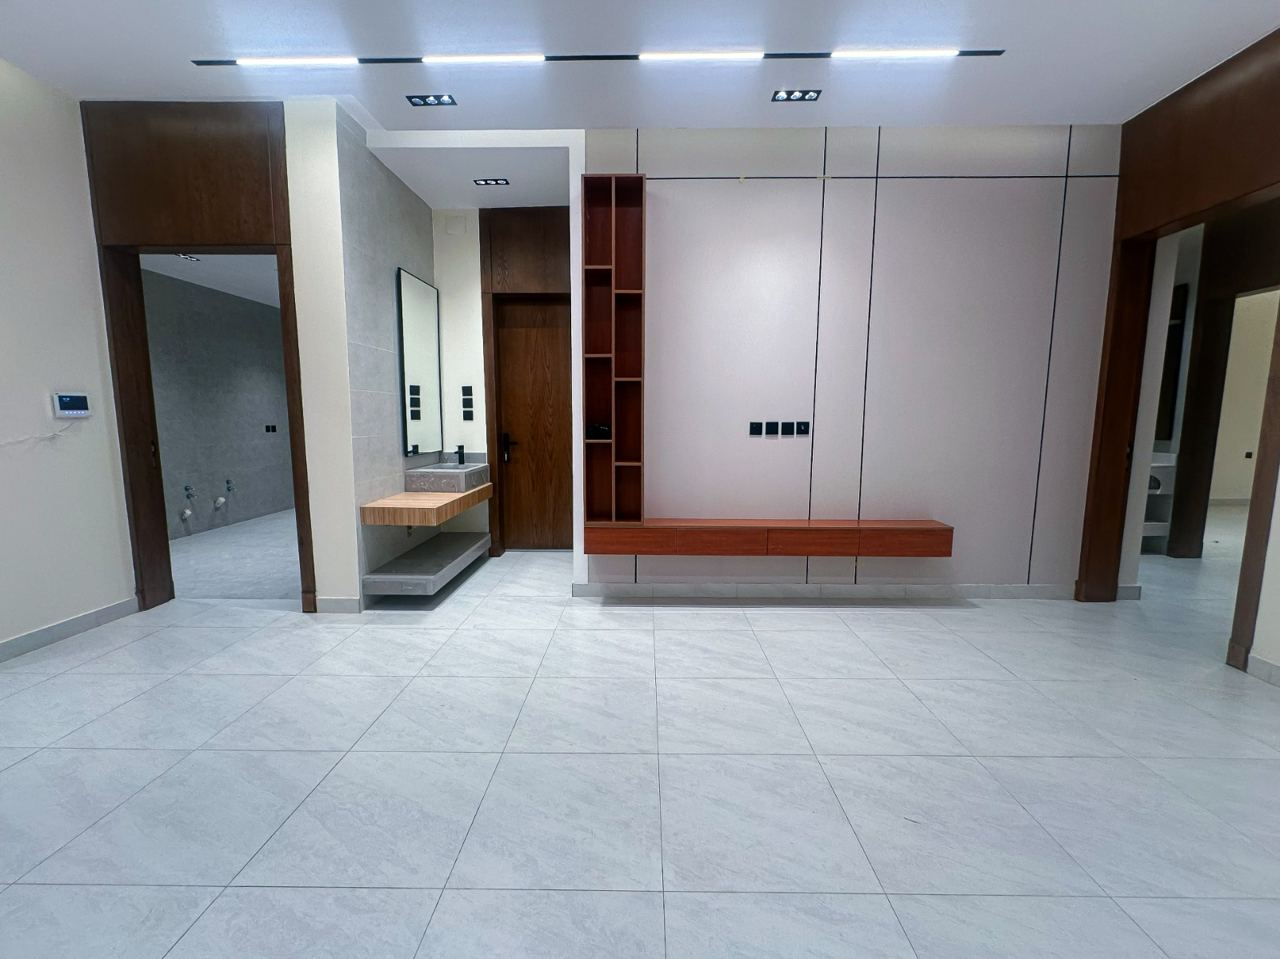
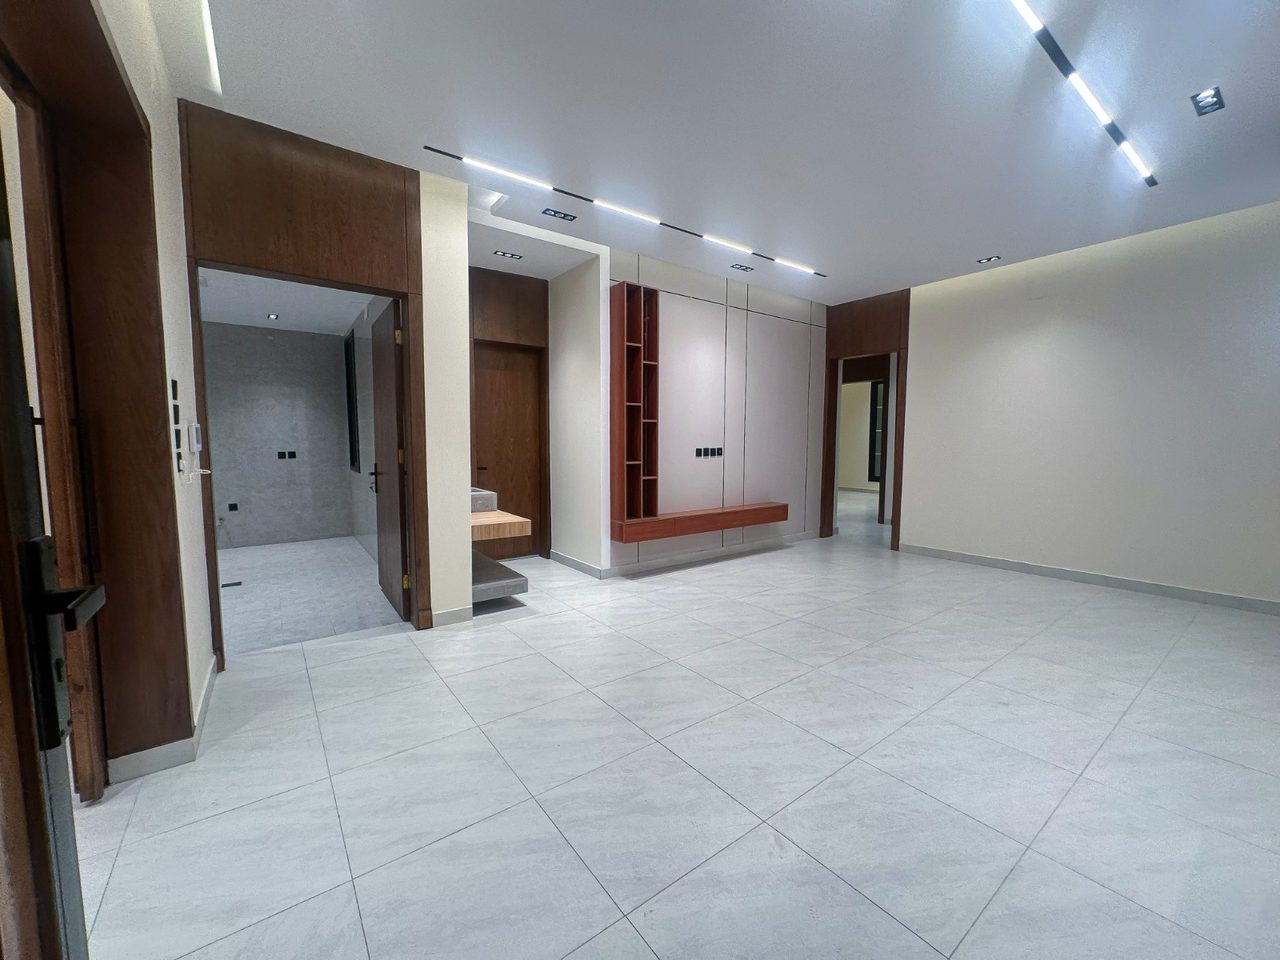
Units 6-10: licence-matched data and real photos (RT-006..RT-010)
Overwrite RT-006..RT-010 with the facts on their REGA ad licences (area, price, type,
district), expiry 2027-04-15, and real photos (EXIF stripped, <=1280px). QR stays empty,
so all units remain hidden under the current guard. Data/media only; no code changes.
See docs/batches/units-6-10-2026-11-14.md.

diff --git a/docs/batches/units-6-10-2026-11-14.md b/docs/batches/units-6-10-2026-11-14.md
@@ -1,0 +1,103 @@
+# Units 6–10 → remalteam.com — data/media batch (2026-11-14)
+
+Prepared Saturday 14 Nov 2026 (Cairo, UTC+2) from `/workspace/remal-units/publish-batch-2026-11-14/unit-*.md` («الموقع» sections) and real photos in `/workspace/remal-units/ready/`. Base: `feat/units-section` @ `abb703fa558638d67b71433330b6d728685d698a` (PR #3, draft). Data and media only — no code, tests or docs changed. Nothing merged or deployed.
+
+## RT numbers: existing files updated, no new numbers
+
+RT-001…RT-010 are all taken, and **RT-006…RT-010 already are units 6–10** (same advertising licence numbers), but with the stale Nov-4 facts the licence contradicts (220 m², «تاون هاوس», 750,000, 165 m², «أرواف فاخرة», «بناء 323 م²», logo-only media). Adding RT-011…RT-015 would have put each licence in the repo twice with conflicting facts, so this batch **overwrites RT-006…RT-010 in place**. RT-001…RT-005 untouched.
+
+| RT | Unit | Licence | Type (schema `type`) | Location | Area m² | Price SAR | Photos | Raw folder |
+|---|---|---|---|---|---|---|---|---|
+| RT-006 | 6 | 7201191996 | شقة – دور أول | أبها، حي الغدير | 189.61 | 520,000 | 10 | `ready/unit-15` |
+| RT-007 | 7 | 7201207200 | فيلا | أبها، حي الغدير | 319.46 | 890,000 | 12 | `ready/unit-11` |
+| RT-008 | 8 | 7201207193 | شقة – دور أرضي مع ملحق | خميس مشيط، حي غرناطة | 254.82 | 749,000 | 6 | `ready/unit-8` |
+| RT-009 | 9 | 7201207197 | شقة – دور أول علوي | أبها، حي الغدير | 164.74 | 490,000 | 9 | `ready/unit-9/media` |
+| RT-010 | 10 | 7201207195 | شقة مع ملحق | خميس مشيط، حي الشفاء | 274.72 | 735,000 | 10 | `ready/unit-12` |
+
+All five: `status: available`, `updated: 2026-11-14`, `ad_license_expiry: "2027-04-15"`, `ad_license_qr: ""` (so every unit stays hidden under the current guard), plus an extra, not-rendered field `ad_license_verify_url` (REGA licence page). Titles, SEO description and «المكونات» are copied verbatim from the md «الموقع» section; `type` is the md «النوع» without «للبيع» (the card adds «للبيع» itself). `rooms`/`bathrooms` only where the md states a total (6: 3 rooms; 7: 5/6; 9: 3/4). Unit 8 has no `rooms` field and no «4 غرف نوم» anywhere (text says غرفة نوم في الدور الأرضي + الملحق 3 غرف نوم, as written). No QR, CR number, REGA logo, bank names or rates in any file.
+
+Compliance lines are in `features` (verbatim from the md) so they show on the detail page even before code changes: «المعلن: مكتب الرمال تيم العقارية · رخصة فال 1200048445», «رقم ترخيص الإعلان: … · ينتهي 15/04/2027م», «المعاينة مجانية», «واتساب 0535330034». If the coding agent renders expiry/advertiser/FAL as dedicated fields, delete those feature lines to avoid duplicates.
+
+## Media
+
+Convention followed: `content/unit-media/<RT>/photo-N.jpg`, JPEG q82 progressive, long side ≤1280 px (never upscaled), EXIF/GPS/ICC stripped, `photo-1` = cover. No AI edits, crops or overlays. Excluded: any frame with people, mirror shots that could show the photographer, readable signage/banners (unit 8 exteriors carry a sales banner and a car; unit 9 street photo has signs), branded covers/designs/frames, and every furnished/model-villa image for unit 7. Old RT-008/RT-009 `photo-1…4` are replaced (same names, new files).
+
+### RT-006 — unit 6 (7201191996) — 10 photos
+
+- `photo-1.jpg` 960×1280 ← `ready/unit-15/WhatsApp Image 2026-11-14 at 2.05.00 PM.jpeg`
+- `photo-2.jpg` 960×1280 ← `ready/unit-15/WhatsApp Image 2026-11-14 at 2.05.01 PM (5).jpeg`
+- `photo-3.jpg` 960×1280 ← `ready/unit-15/WhatsApp Image 2026-11-14 at 2.05.01 PM (1).jpeg`
+- `photo-4.jpg` 960×1280 ← `ready/unit-15/WhatsApp Image 2026-11-14 at 2.05.00 PM (3).jpeg`
+- `photo-5.jpg` 960×1280 ← `ready/unit-15/WhatsApp Image 2026-11-14 at 2.05.02 PM (1).jpeg`
+- `photo-6.jpg` 960×1280 ← `ready/unit-15/WhatsApp Image 2026-11-14 at 2.05.02 PM (4).jpeg`
+- `photo-7.jpg` 960×1280 ← `ready/unit-15/WhatsApp Image 2026-11-14 at 2.05.01 PM (2).jpeg`
+- `photo-8.jpg` 960×1280 ← `ready/unit-15/WhatsApp Image 2026-11-14 at 2.05.00 PM (2).jpeg`
+- `photo-9.jpg` 960×1280 ← `ready/unit-15/WhatsApp Image 2026-11-14 at 2.05.01 PM (3).jpeg`
+- `photo-10.jpg` 960×1280 ← `ready/unit-15/WhatsApp Image 2026-11-14 at 2.05.03 PM.jpeg`
+
+### RT-007 — unit 7 (7201207200) — 12 photos
+
+- `photo-1.jpg` 960×1280 ← `ready/unit-11/WhatsApp Image 2026-11-14 at 12.46.49 PM (2).jpeg`
+- `photo-2.jpg` 960×1280 ← `ready/unit-11/WhatsApp Image 2026-11-14 at 12.46.48 PM.jpeg`
+- `photo-3.jpg` 960×1280 ← `ready/unit-11/WhatsApp Image 2026-11-14 at 12.46.49 PM (1).jpeg`
+- `photo-4.jpg` 960×1280 ← `ready/unit-11/WhatsApp Image 2026-11-14 at 12.46.51 PM.jpeg`
+- `photo-5.jpg` 960×1280 ← `ready/unit-11/WhatsApp Image 2026-11-14 at 12.46.51 PM (2).jpeg`
+- `photo-6.jpg` 960×1280 ← `ready/unit-11/WhatsApp Image 2026-11-14 at 12.46.52 PM (1).jpeg`
+- `photo-7.jpg` 960×1280 ← `ready/unit-11/WhatsApp Image 2026-11-14 at 12.46.52 PM.jpeg`
+- `photo-8.jpg` 960×1280 ← `ready/unit-11/WhatsApp Image 2026-11-14 at 12.46.49 PM.jpeg`
+- `photo-9.jpg` 960×1280 ← `ready/unit-11/WhatsApp Image 2026-11-14 at 12.46.50 PM (1).jpeg`
+- `photo-10.jpg` 960×1280 ← `ready/unit-11/WhatsApp Image 2026-11-14 at 12.46.52 PM (3).jpeg`
+- `photo-11.jpg` 960×1280 ← `ready/unit-11/WhatsApp Image 2026-11-14 at 12.46.52 PM (4).jpeg`
+- `photo-12.jpg` 464×832 ← `/tmp/court_2.jpg`
+
+### RT-008 — unit 8 (7201207193) — 6 photos
+
+- `photo-1.jpg` 720×1280 ← `ready/unit-8/carousel/05.jpg`
+- `photo-2.jpg` 720×1280 ← `ready/unit-8/carousel/04.jpg`
+- `photo-3.jpg` 720×1280 ← `ready/unit-8/carousel/06.jpg`
+- `photo-4.jpg` 720×1280 ← `ready/unit-8/carousel/02.jpg`
+- `photo-5.jpg` 720×1280 ← `/tmp/u8f/v5_0.7.jpg`
+- `photo-6.jpg` 720×1280 ← `/tmp/u8f/v10_0.3.jpg`
+
+### RT-009 — unit 9 (7201207197) — 9 photos
+
+- `photo-1.jpg` 1280×959 ← `ready/unit-9/media/WhatsApp Image 2026-11-01 at 11.31.49 AM.jpeg`
+- `photo-2.jpg` 1280×960 ← `ready/unit-9/media/WhatsApp Image 2026-11-01 at 11.31.50 AM.jpeg`
+- `photo-3.jpg` 1280×960 ← `ready/unit-9/media/WhatsApp Image 2026-11-01 at 11.31.51 AM (3).jpeg`
+- `photo-4.jpg` 1280×960 ← `ready/unit-9/media/WhatsApp Image 2026-11-01 at 11.31.52 AM (2).jpeg`
+- `photo-5.jpg` 1280×960 ← `ready/unit-9/media/WhatsApp Image 2026-11-01 at 11.31.52 AM.jpeg`
+- `photo-6.jpg` 1280×960 ← `ready/unit-9/media/WhatsApp Image 2026-11-01 at 11.31.54 AM (1).jpeg`
+- `photo-7.jpg` 1280×960 ← `ready/unit-9/media/WhatsApp Image 2026-11-01 at 11.31.51 AM (1).jpeg`
+- `photo-8.jpg` 1280×960 ← `ready/unit-9/media/WhatsApp Image 2026-11-01 at 11.31.54 AM.jpeg`
+- `photo-9.jpg` 1280×960 ← `ready/unit-9/media/WhatsApp Image 2026-11-01 at 11.31.53 AM (1).jpeg`
+
+### RT-010 — unit 10 (7201207195) — 10 photos
+
+- `photo-1.jpg` 960×1280 ← `ready/unit-12/WhatsApp Image 2026-11-14 at 1.44.16 PM.jpeg`
+- `photo-2.jpg` 960×1280 ← `ready/unit-12/WhatsApp Image 2026-11-14 at 1.44.19 PM (3).jpeg`
+- `photo-3.jpg` 960×1280 ← `ready/unit-12/WhatsApp Image 2026-11-14 at 1.44.19 PM (1).jpeg`
+- `photo-4.jpg` 960×1280 ← `ready/unit-12/WhatsApp Image 2026-11-14 at 1.44.20 PM (1).jpeg`
+- `photo-5.jpg` 960×1280 ← `ready/unit-12/WhatsApp Image 2026-11-14 at 1.44.20 PM (5).jpeg`
+- `photo-6.jpg` 960×1280 ← `ready/unit-12/WhatsApp Image 2026-11-14 at 1.44.21 PM (1).jpeg`
+- `photo-7.jpg` 960×1280 ← `ready/unit-12/WhatsApp Image 2026-11-14 at 1.44.21 PM.jpeg`
+- `photo-8.jpg` 960×1280 ← `ready/unit-12/WhatsApp Image 2026-11-14 at 1.44.20 PM (3).jpeg`
+- `photo-9.jpg` 960×1280 ← `ready/unit-12/WhatsApp Image 2026-11-14 at 1.44.20 PM.jpeg`
+- `photo-10.jpg` 960×1280 ← `ready/unit-12/WhatsApp Image 2026-11-14 at 1.44.21 PM (2).jpeg`
+
+Notes: RT-007 `photo-12` is the courtyard frame from `unit-11/WhatsApp Video 2026-11-14 at 12.47.35 PM (1).mp4` @2 s (native 464×832; a loose desk and chair stand in the courtyard, no model furniture). RT-008 has no still photos at all: photos 1–4 are the existing `unit-8/carousel/0{5,4,6,2}.jpg` video frames, photos 5–6 are frames from videos 11.01.43 (70%) and 11.02.14 (30%); all 720×1280. RT-006 cover is the night exterior.
+
+## What the guard needs that this data cannot satisfy (for the coding agent)
+
+Guard: `scripts/units-lib.mjs` → `licencePending(unit)` = `status !== 'draft' && (blank(ad_license_expiry) || blank(ad_license_qr))`; `isPublic` = not draft, not pending, not expired (Riyadh date). `validateUnits` fails the build on: missing/non-digit `ad_license_number` (6–20 digits), non-calendar `ad_license_expiry`, `ad_license_qr` that is not an existing image file in `content/unit-media/<RT>/` or an https URL ending .jpg/.jpeg/.png/.webp. `syncPublishedMedia` copies `content/unit-media/<RT>/` to `public/units/<RT>/` only for public units. Detail page licence block (`detailLicense`) and card `license` both require a QR URL; without it no licence number is rendered.
+
+1. **`ad_license_qr` is required and there is no QR.** Islam approved full written licence data instead of the QR (Real-Estate Advertising Regulation art. 5/1, publish-batch README). Guard must accept `ad_license_number` + `ad_license_expiry` without QR, and render the number + «ينتهي 15/04/2027م» as text when there is no QR.
+2. **No schema field renders advertiser name, FAL licence or WhatsApp per unit.** FAL `1200048445`, office name and `+966535330034` exist site-wide in `content/site.json` (footer/legal block, WhatsApp button). Currently covered by the `features` lines above.
+3. **Expiry date is never displayed** (only used for hiding).
+4. **Tests to update** (`scripts/units.test.mjs`): `checked-in units 1-10 … stay hidden until expiry + QR are filled` asserts `ad_license_expiry === ''` and `media` `{logo:true}` for RT-006/007/010; `filling expiry + QR publishes …` expects `rt-card-logo` (RT-007 now has photos). With this data: 17 pass / 2 fail (baseline 19/19). `node scripts/build-pages.mjs` succeeds: 0 published units, warnings only.
+5. `docs/units.md` still says units 6, 7, 10 have no photos and use the logo card.
+6. Live site already carries the commercial registration number in the site-wide schema (`content/site.json` `commercial_registration`); left as is per Fox.
+
+## Files
+- Repo-mirrored: `content/units/RT-006…RT-010.json`, `content/unit-media/RT-006…RT-010/photo-N.jpg`
+- Contact sheets (box only): `contact-sheets/RT-0NN-unit-N.jpg`
+- Generator: `build.py`
